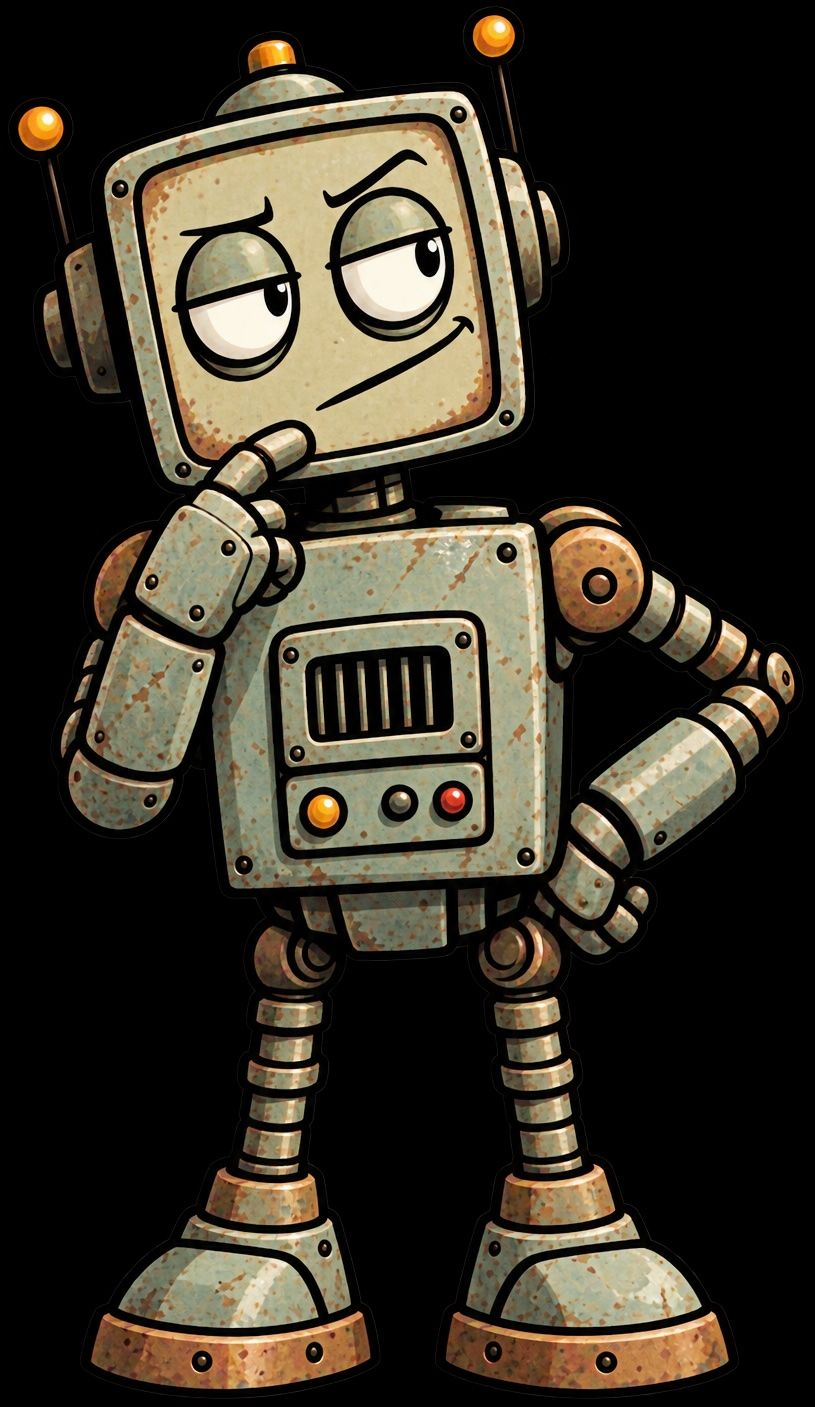
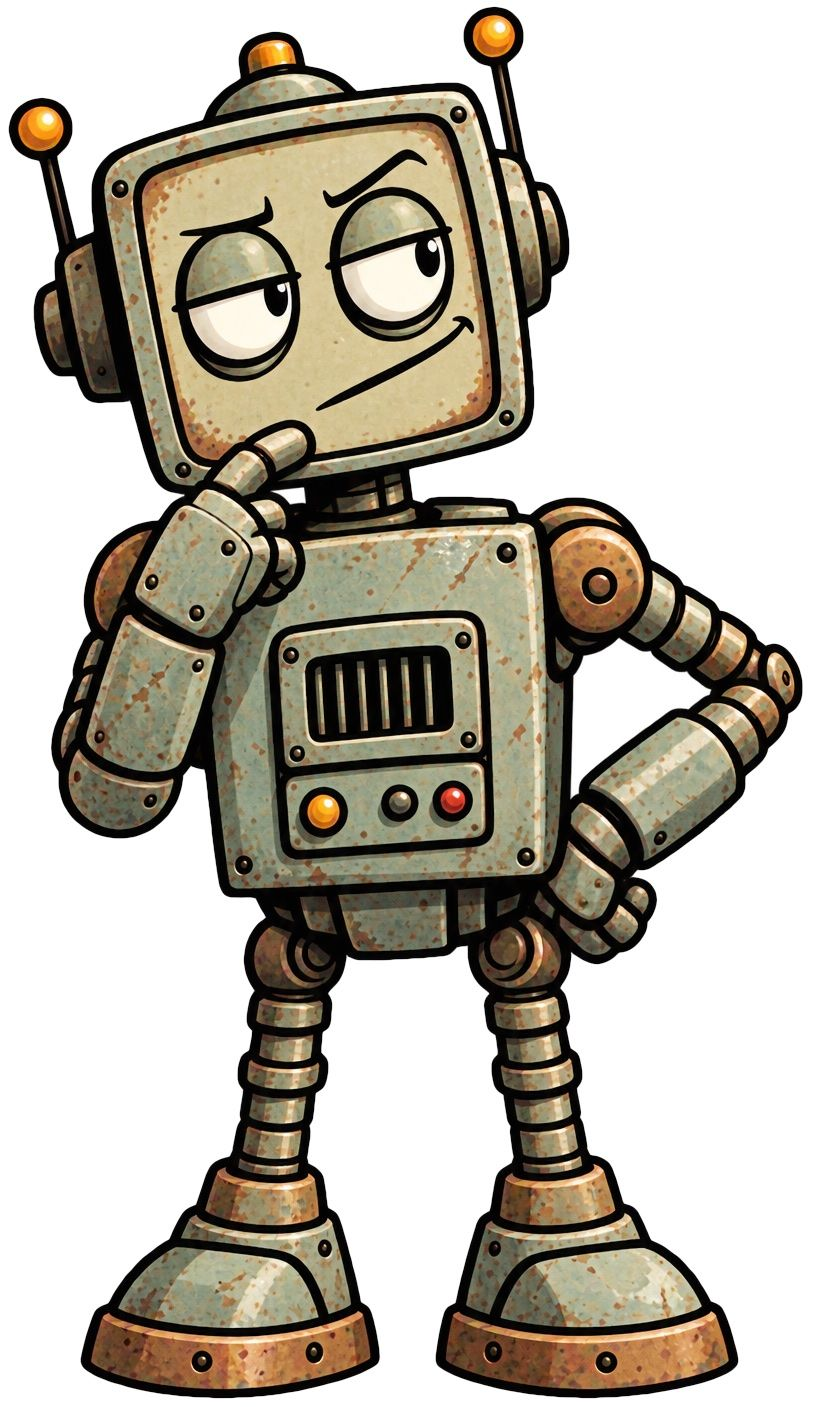
Update background color to pure white.

diff --git a/2026/2026-10-admin/admin.tex b/2026/2026-10-admin/admin.tex
@@ -13,6 +13,7 @@
 
 \graphicspath{{../../faces/}}
 
+\definecolor{purewhite}{HTML}{FFFFFF}
 \definecolor{myblack}{HTML}{000000}
 \definecolor{myred}{HTML}{ED474A}
 \definecolor{myblue}{HTML}{241CA6}
@@ -52,7 +53,7 @@
 
 \plush{
   \begin{textblock}{5}(9,0)%
-    \tikz \node[minimum width=\paperwidth, minimum height=\paperheight, fill=white, inner sep=0pt] {};
+    \tikz \node[minimum width=\paperwidth, minimum height=\paperheight, fill=purewhite, inner sep=0pt] {};
   \end{textblock}%
   \begin{textblock}{8}[1,1](15,15)%
     \raggedleft%
